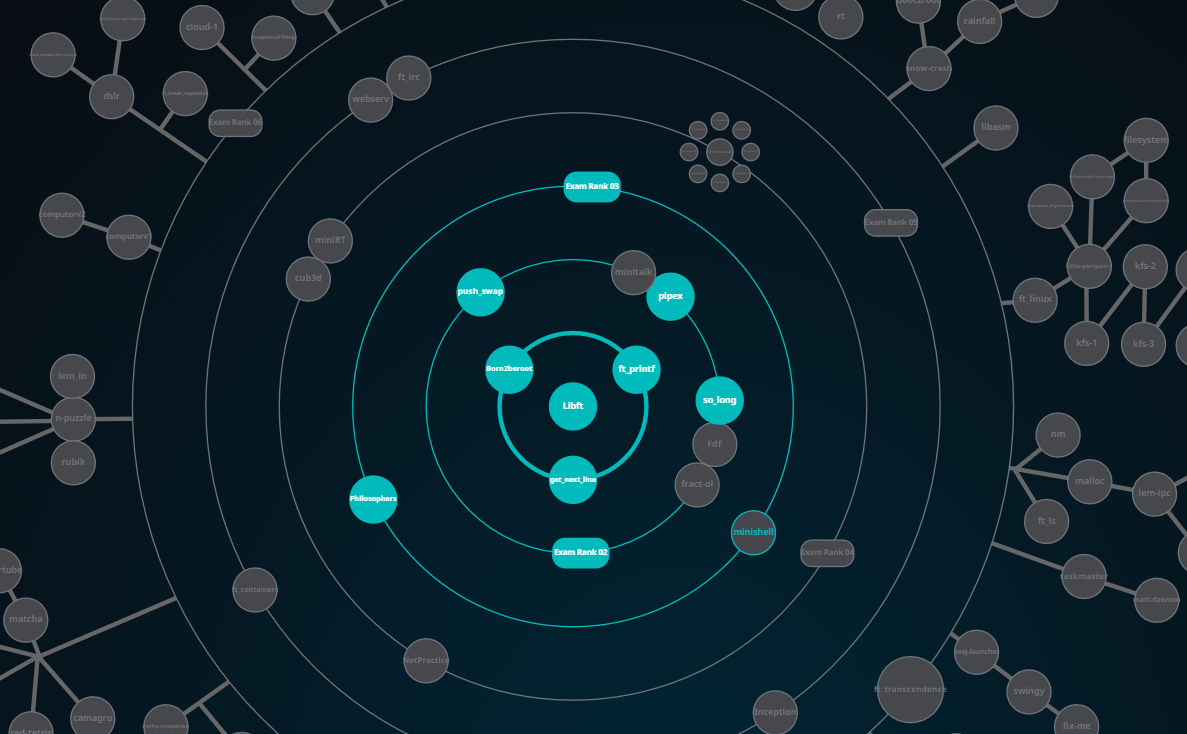
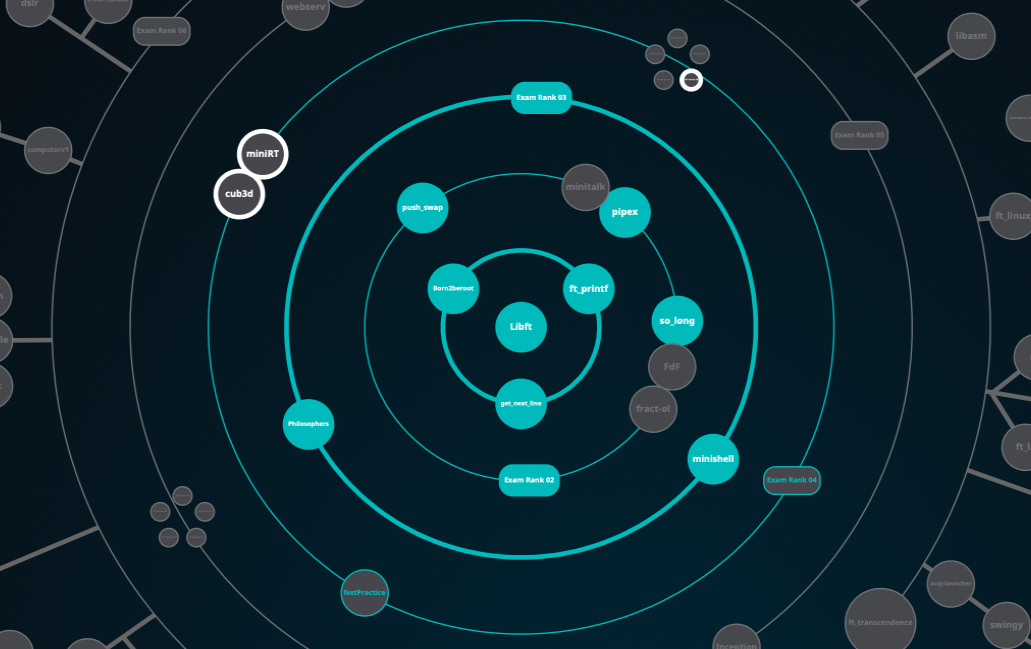
update

diff --git a/README.md b/README.md
@@ -1,12 +1,25 @@
-# WHOAMI
+![COMMON_CORE](./banner.png?raw=true)
+
+*I am a passionate engineer always willing to build or improve either a product, a system or a team, taking a leap forward to capture all opportunities. My main motivation is to keep learning and growing while dealing with the challenges that the current market and new technologies offer.*
+
+### Join me in the journey to unlock the secrets of software engineering at 42 school!
+
+---
+
 ![GitHub WidgetBox](https://github-widgetbox.vercel.app/api/profile?username=ikersojo&data=followers,repositories,stars,commits)
 
-## Engineer :airplane:
+## 42 Common Core Progress:
 
-# COMMON CORE CURRENT PROGRESS:
-![COMMON_CORE](https://github.com/ikersojo/ikersojo/blob/main/Common_Core_Progress.png?raw=true)
+![COMMON_CORE](./Common_Core_Progress.png?raw=true)
+<p align="center">
+  <img src="./Common_Core_Progress.png" />
+</p>
 
+<p align="center">
+  <img src="./scores.png" />
+</p>
 
+![SCORES](./scores.png?raw=true)
 
 ![GitHub WidgetBox](https://github-widgetbox.vercel.app/api/skills?languages=c,python)
 
